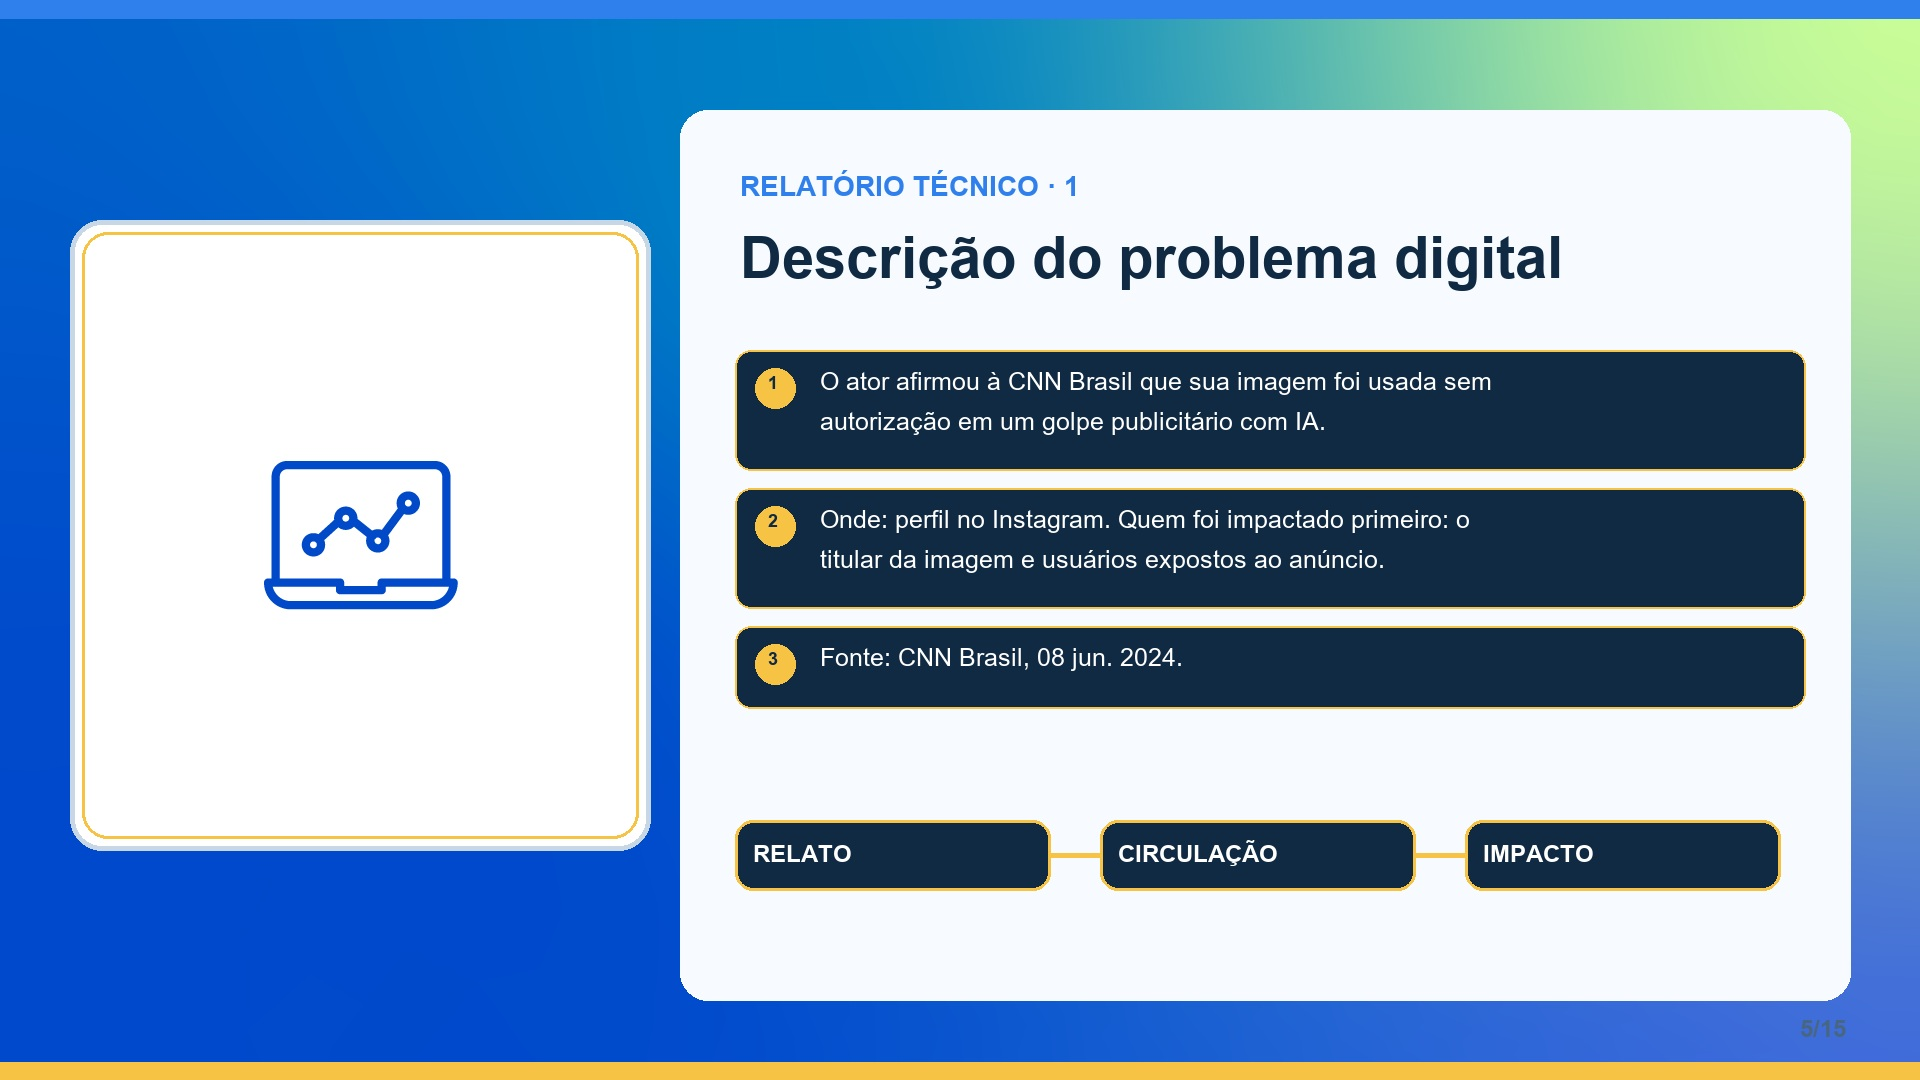
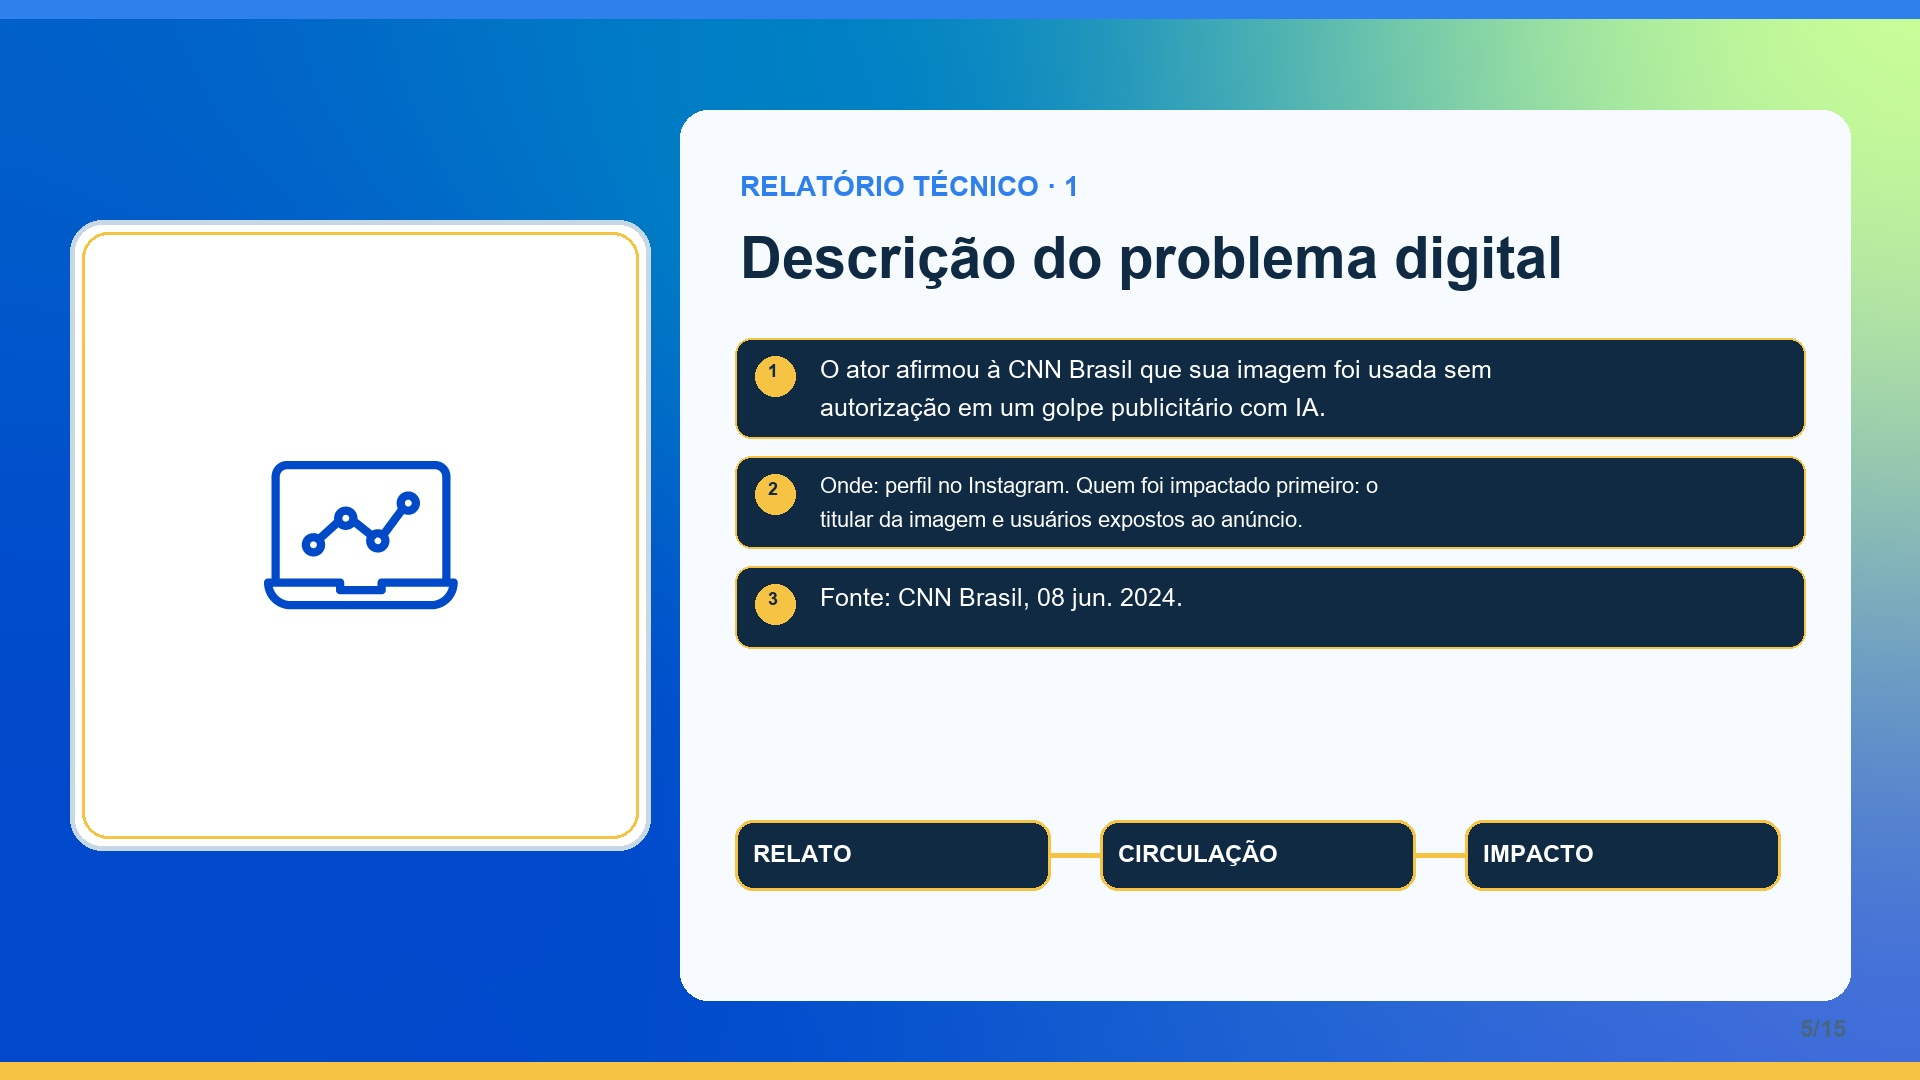
feat: ajustar escala tipografica responsiva dos slides

Changed region(s): [[0.375, 0.3056, 0.9688, 0.6722]]

diff --git a/scripts/generate_n3_jpgs.py b/scripts/generate_n3_jpgs.py
@@ -47,12 +47,12 @@ def diagram(d, i):
 
 for i,(k,t,ps,img) in enumerate(S,1):
  bg=Image.open(A/'template-capa-002.png').convert('RGB').resize((1920,1080))
- im=bg.copy(); d=ImageDraw.Draw(im); d.rectangle((0,0,1920,18),fill=(47,128,237)); d.rectangle((0,1062,1920,1080),fill=(246,195,68)); d.rounded_rectangle((680,110,1850,1000),radius=28,fill=(247,251,255,238)); d.rounded_rectangle((70,220,650,850),radius=32,fill=(255,255,255),outline=(199,215,229),width=5); d.rounded_rectangle((82,232,638,838),radius=26,outline=(246,195,68),width=3); a=Image.open(A/img).convert('RGBA'); a.thumbnail((520,560)); ax=360-a.width//2; ay=535-a.height//2; im.paste(a,(ax,ay),a); d.text((740,170),k,font=font(28,1),fill=(47,128,237)); d.text((740,225),t,font=font(58,1),fill=(16,42,67)); y=350
+ im=bg.copy(); d=ImageDraw.Draw(im); d.rectangle((0,0,1920,18),fill=(47,128,237)); d.rectangle((0,1062,1920,1080),fill=(246,195,68)); d.rounded_rectangle((680,110,1850,1000),radius=28,fill=(247,251,255,238)); d.rounded_rectangle((70,220,650,850),radius=32,fill=(255,255,255),outline=(199,215,229),width=5); d.rounded_rectangle((82,232,638,838),radius=26,outline=(246,195,68),width=3); a=Image.open(A/img).convert('RGBA'); a.thumbnail((520,560)); ax=360-a.width//2; ay=535-a.height//2; im.paste(a,(ax,ay),a); d.text((740,170),k,font=font(28,1),fill=(47,128,237)); title_size=58 if len(t)<=34 else 50 if len(t)<=44 else 44; d.text((740,225),t,font=font(title_size,1),fill=(16,42,67)); y=225+title_size+55
  for n,p in enumerate(ps,1):
-  lines=textwrap.wrap(p,58); h=max(82,48*len(lines)+24)
+  lines=textwrap.wrap(p,58); body_size=25 if len(p)<105 else 22; line_h=38 if body_size==25 else 34; h=max(82,line_h*len(lines)+24)
   d.rounded_rectangle((735,y,1805,y+h),radius=16,fill=(16,42,67),outline=(246,195,68),width=2)
   d.ellipse((755,y+18,795,y+58),fill=(246,195,68)); d.text((768,y+22),str(n),font=font(18,1),fill=(16,42,67))
-  for j,line in enumerate(lines):d.text((820,y+17+j*40),line,font=font(25),fill=(255,255,255))
+  for j,line in enumerate(lines):d.text((820,y+17+j*line_h),line,font=font(body_size),fill=(255,255,255))
   y+=h+18
  diagram(d,i)
  if img.startswith('visual-'): d.text((110,790),'ILUSTRAÇÃO CC BY-SA 2.0 · MINISTERIE VAN BUITENLANDSE ZAKEN',font=font(13,1),fill=(16,42,67))
